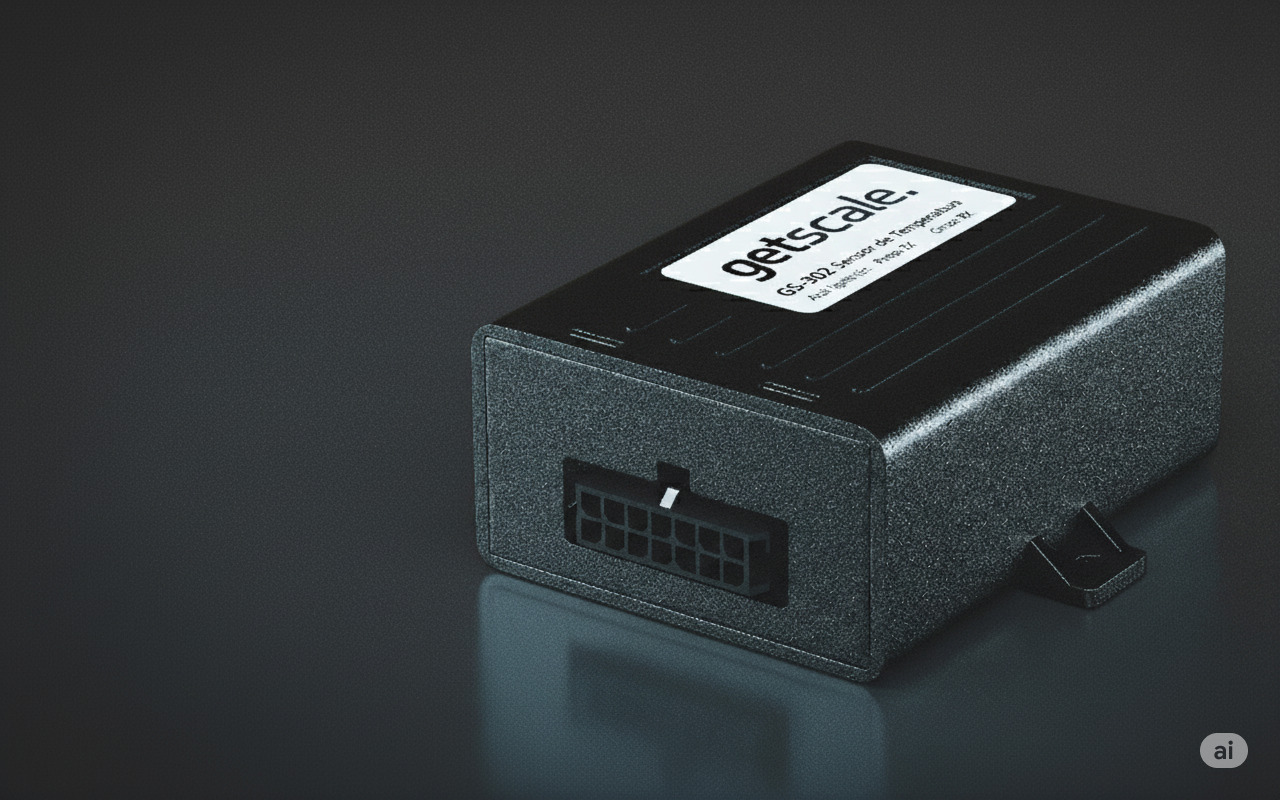
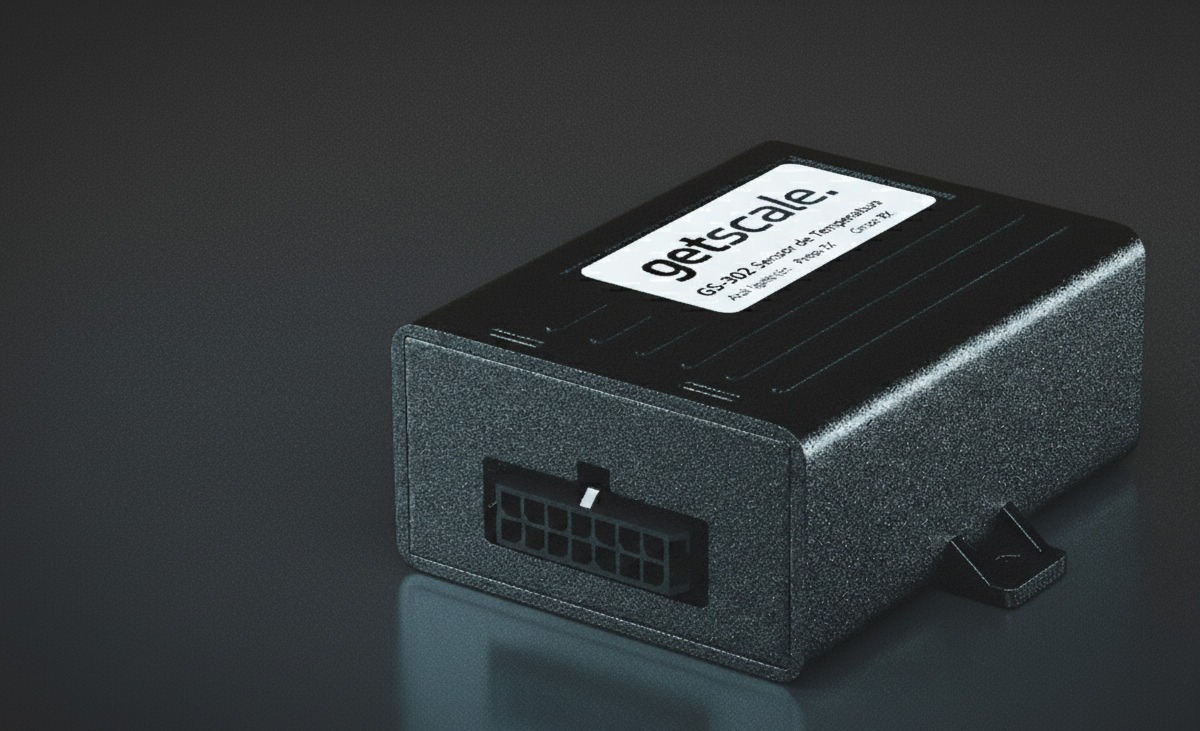
show

Changed region(s): [[0.3083, 0.1806, 0.9558, 1.0], [0.925, 0.9029, 0.9867, 0.9631]]

diff --git a/src/gs300h3.jsx b/src/gs300h3.jsx
@@ -7,7 +7,7 @@ import { Textarea } from '@/components/ui/textarea.jsx';
 import { BrowserRouter, Routes, Route, Link } from "react-router-dom";
 import Logo from './assets/logo.png'; // Presumindo que o Logo também será usado aqui
 
-import flyerImage from './assets/rastreadores.jpg'
+import flyerImage from './assets/rastreadores302.jpg'
 import ParametrosImage from './assets/parametros.png'
 import ServicoImage from './assets/servico.jpg'
 
